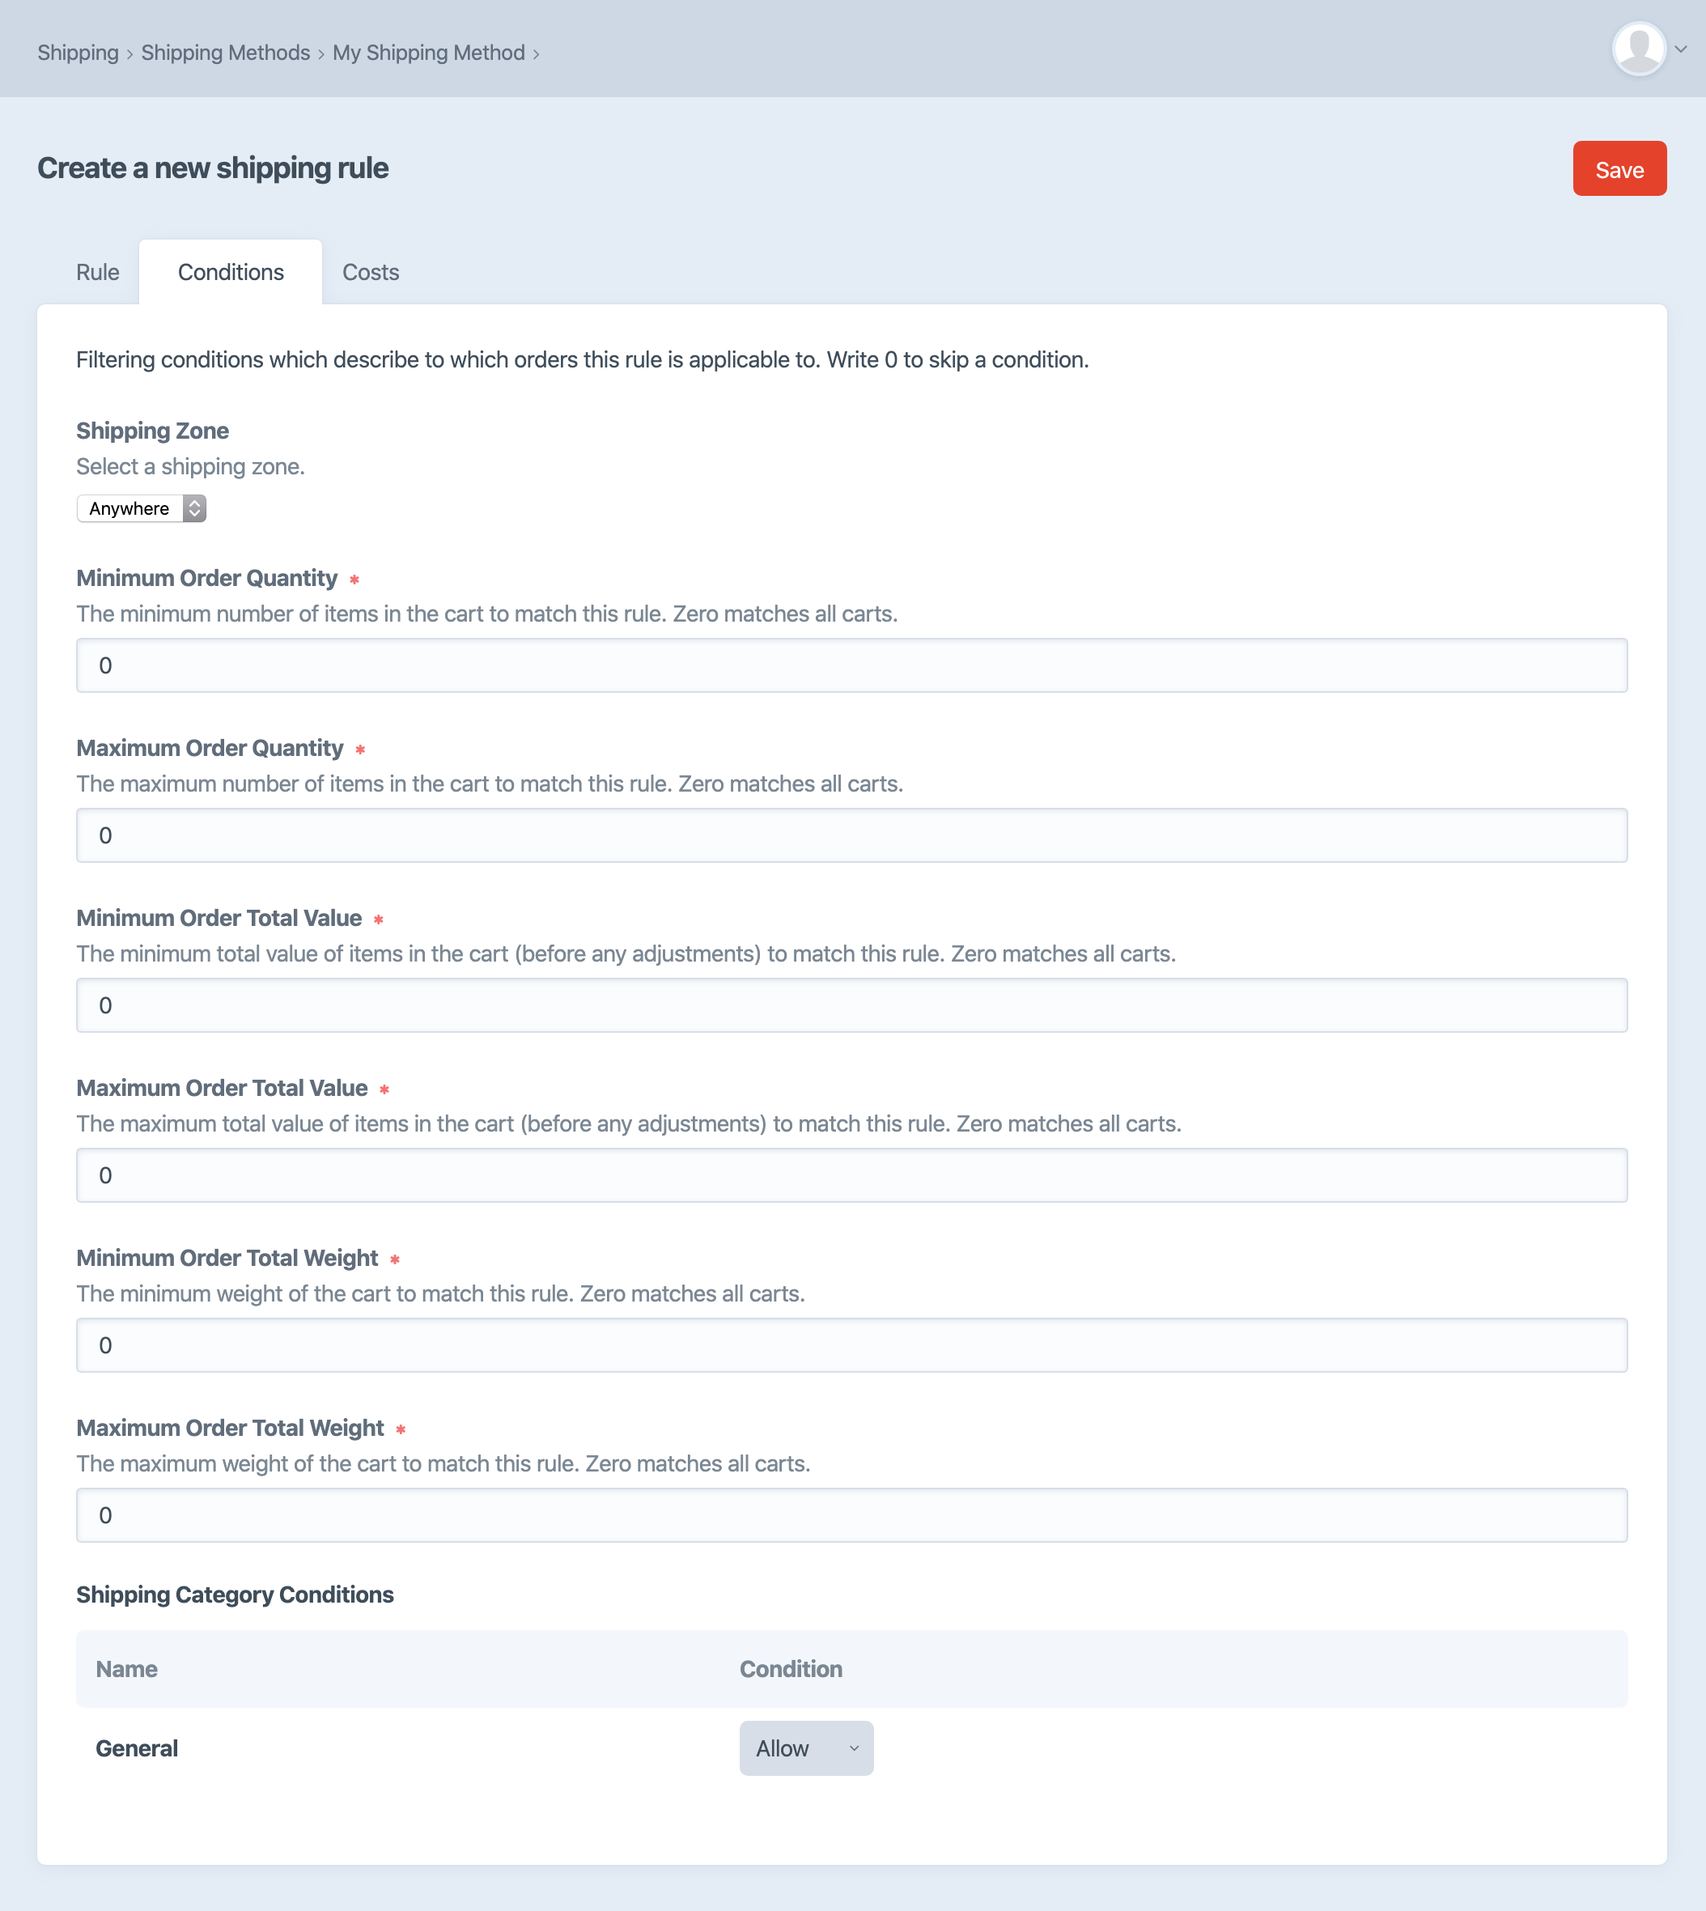
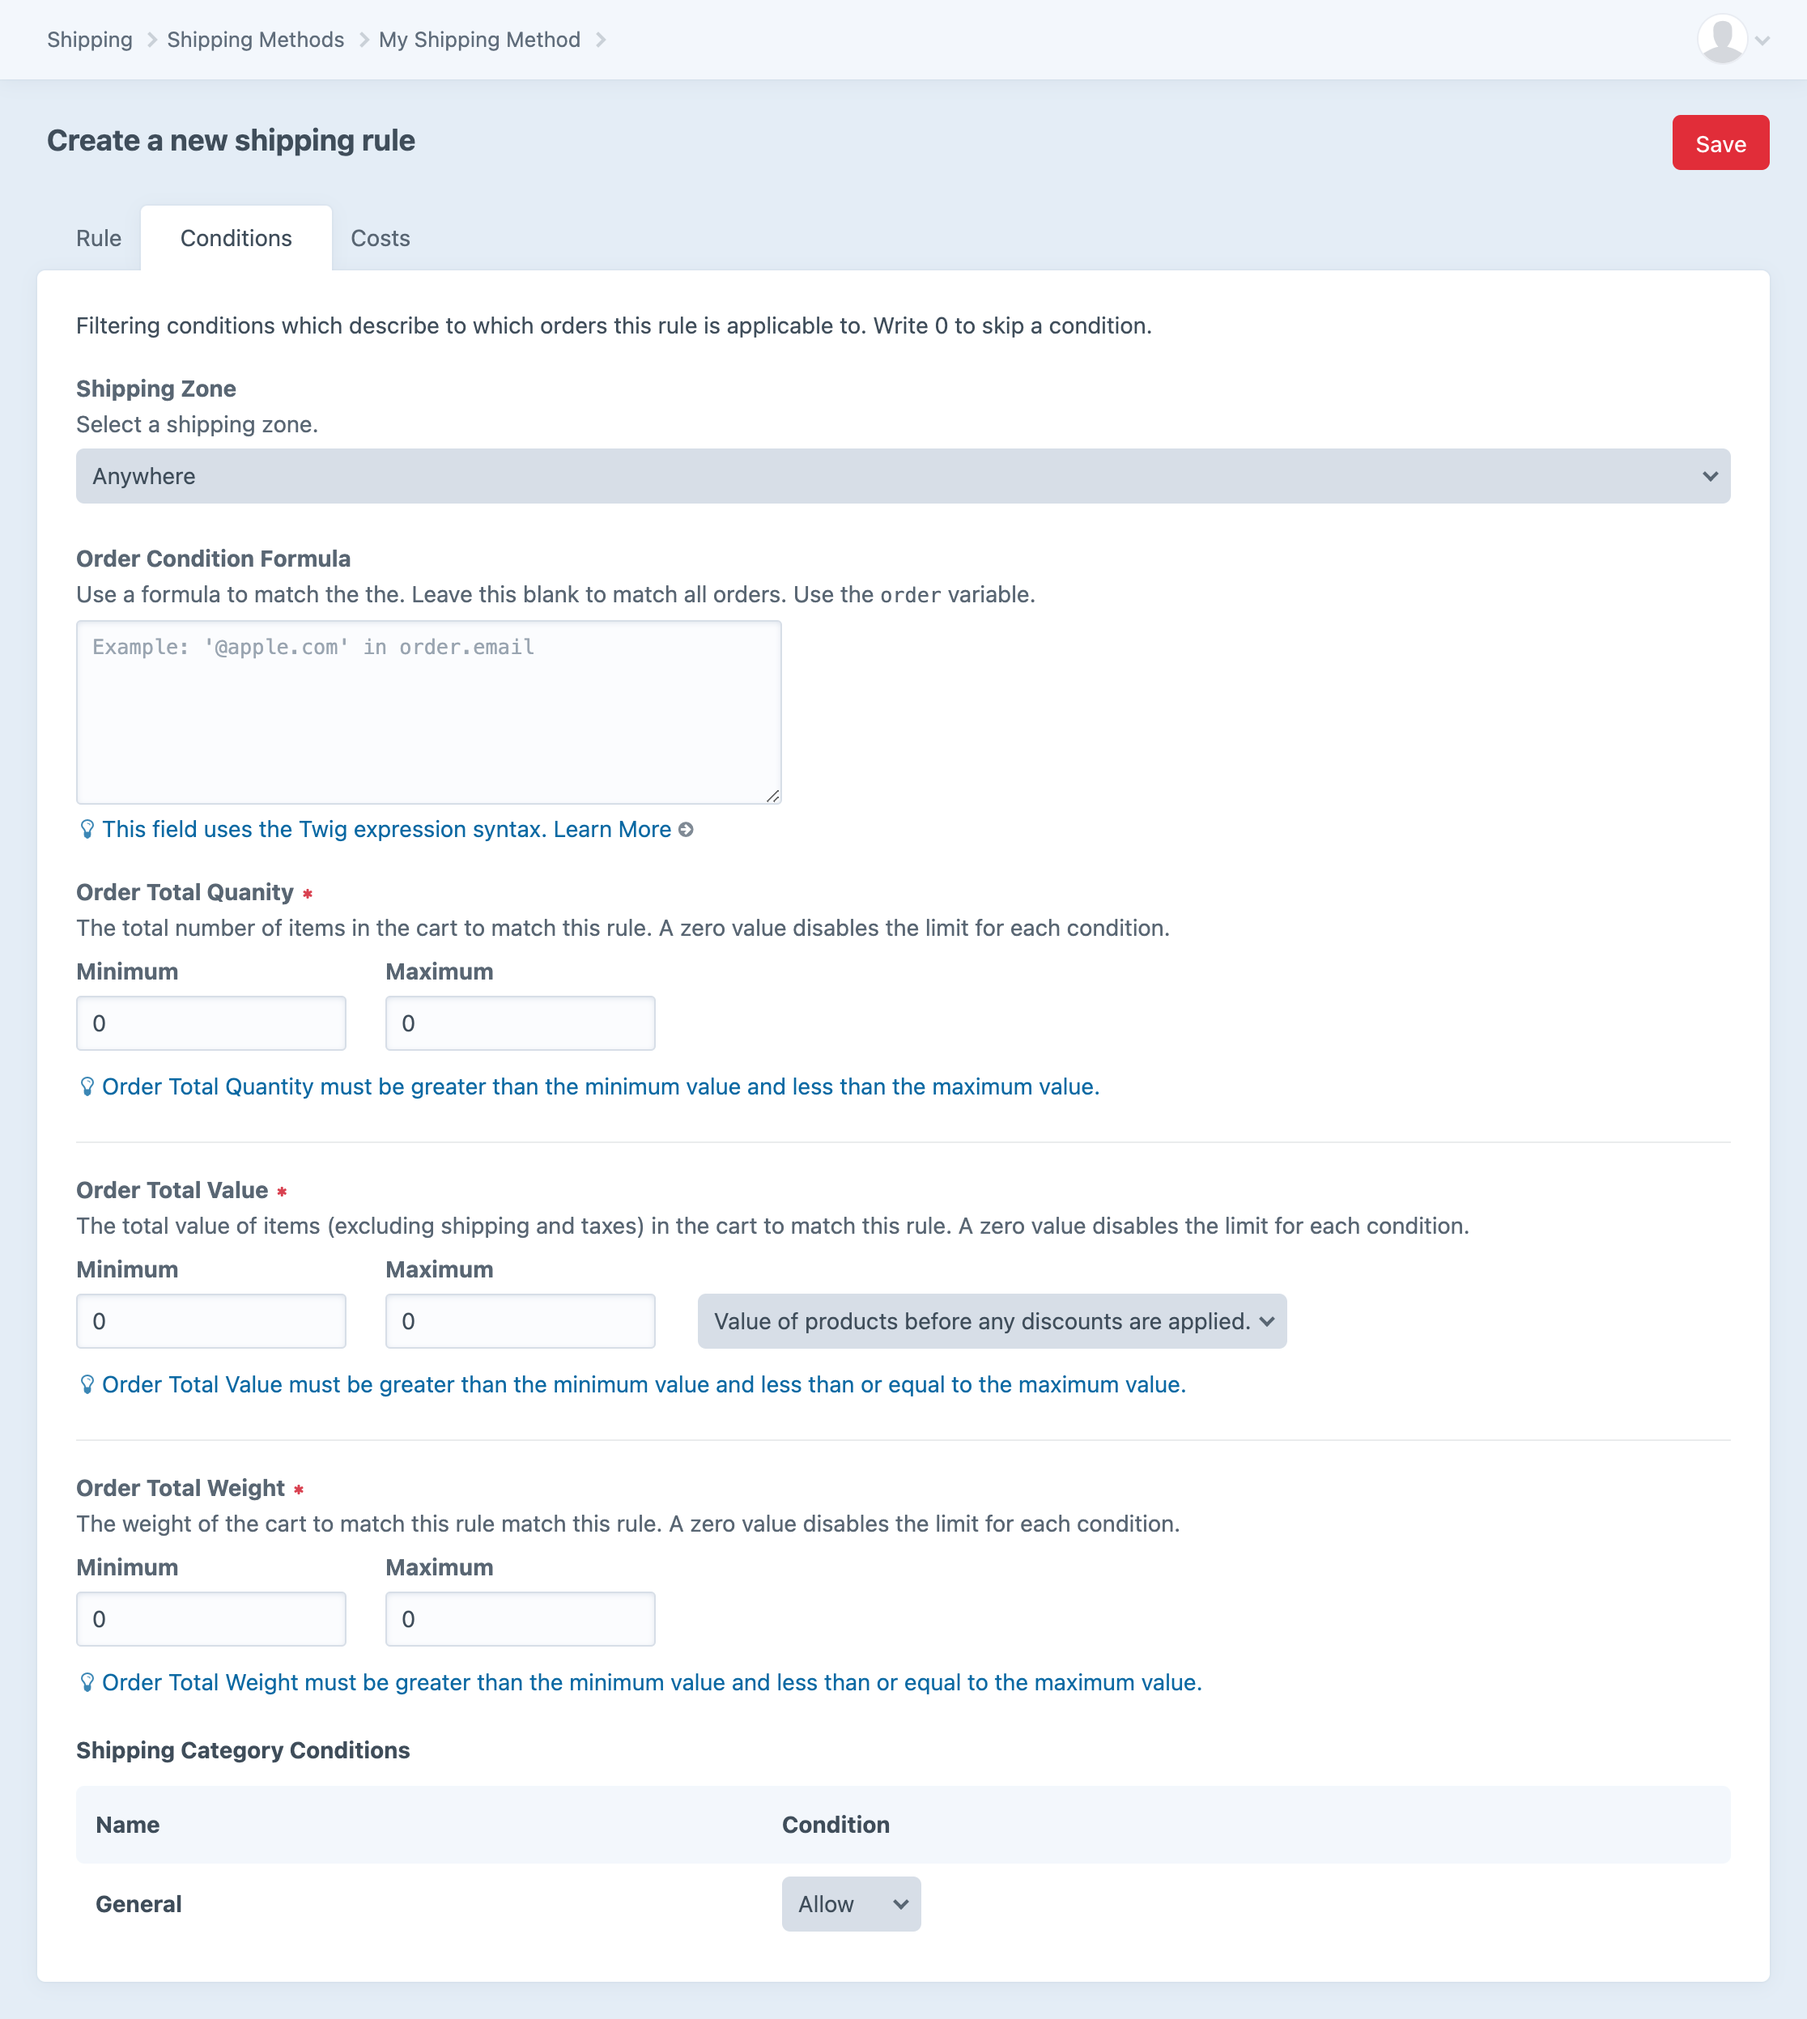
Update Shipping page.
- Update Conditions and Costs screenshots.
- Revise Shipping Rule Conditions subheadings to match UI.
- Document new Order Condition Formula.

diff --git a/docs/commerce/3.x/shipping.md b/docs/commerce/3.x/shipping.md
@@ -80,29 +80,21 @@ The matching of the shipping rules to the cart is based on the following rules c
 
 Each shipping rule can have a single zone. This condition is met if the order’s shipping address falls within this zone.
 
-### Minimum Order Quantity
+### Order Condition Formula
 
-This condition is met if the order has at least a certain number of items.
+An optional condition for specifying criteria to be met in order for the shipping method to be available for selection.
 
-### Maximum Order Quantity
+### Order Total Quanity
 
-This condition is met if the order quantity does not exceed a certain number of items.
+This condition is met if the order has at least and/or at most a certain number of items.
 
-### Minimum Order Total Price
+### Order Total Value
 
-This condition is met if the total order price is at least a certain amount.
+This condition is met if the total order price is at least and/or at most a certain amount.
 
-### Maximum Order Total Price
+### Order Total Weight
 
-This condition is met if the total order price is no more than a certain amount.
-
-### Minimum Order Total Weight
-
-This condition is met if the total order weight is at least a certain amount.
-
-### Maximum Order Total Weight
-
-This condition is met if the total order weight is no more than a certain amount.
+This condition is met if the total order weight is at least and/or at most a certain amount.
 
 ### Shipping Categories
 
